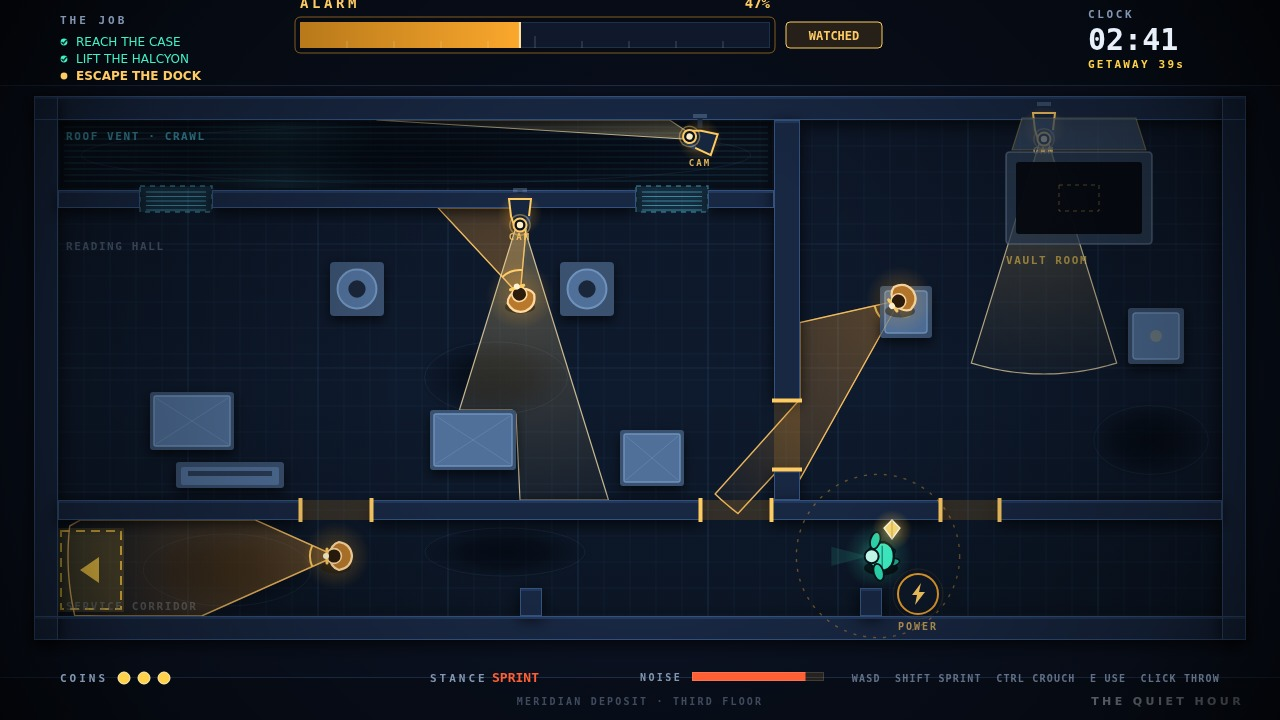
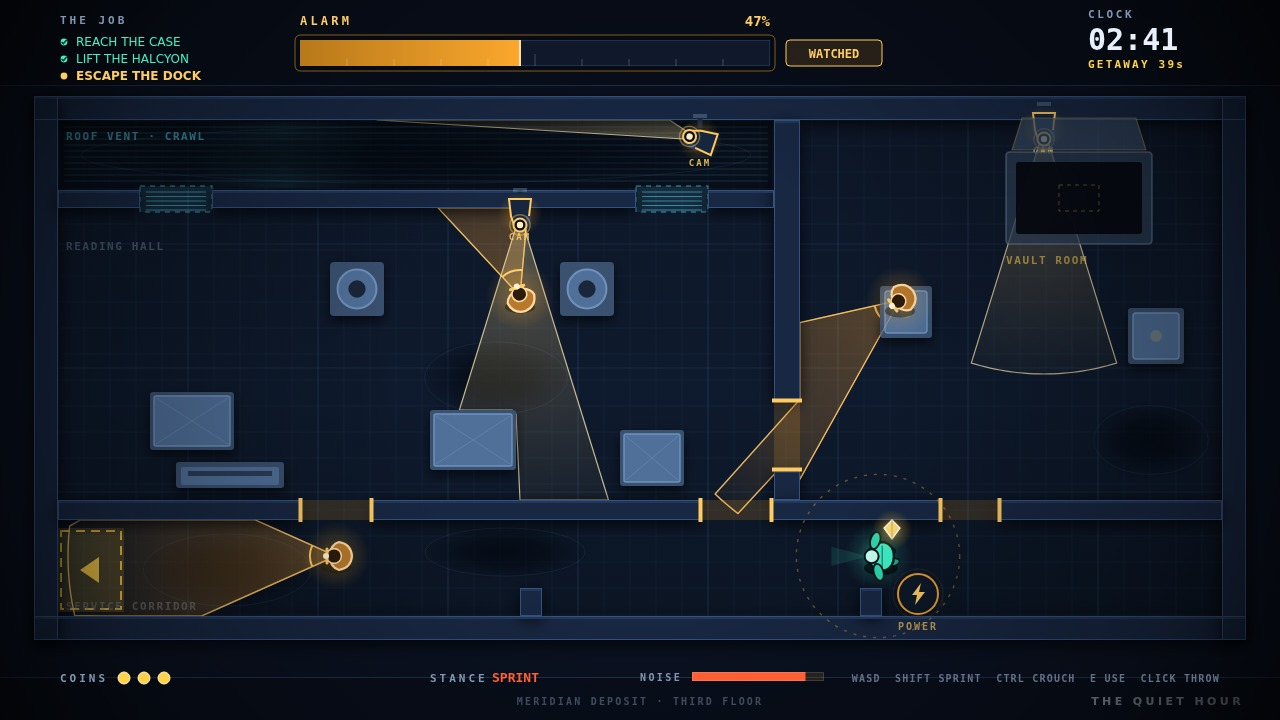
Author the hand-in driver in this session; final cover pass
main.ts is rewritten in this session's own structure (same behaviour: stage game/
and screenshots/, write dossier.json with buildDossier and the scorer's caps),
because the kit's starter copy holds no line this agent wrote and the transcript
gate requires the entrypoint to carry authored lines. Game source and the four
screenshots likewise take their final content from this session's edits.

Changed region(s): [[0.2188, 0.0, 0.6875, 0.0917]]

diff --git a/main.ts b/main.ts
@@ -1,41 +1,55 @@
-// A working best-game-01 entry (Node 22, standard library only): the game is this directory's
-// game/ folder, plain static files a desktop browser loads offline (game/index.html and its ES
-// modules, no library and no network request), and the program hands it in. It copies game/ and
-// screenshots/ from beside this file to /output and writes /output/dossier.json, the summary the
-// judge reads, with the vendored make.fun library. A starting point, not a winner: Block Dodger, a
-// plain 2D canvas game where a paddle dodges falling blocks and catches coins, with a title screen,
-// score, lives and levels, game over and restart, flat colours and no sound. Build your own game
-// (any genre, any library you vendor under game/, or none), put your 3 or 4 PNG or JPEG screenshots
-// in screenshots/ (the first by name is the cover) and run it.
+// Hand-in driver for this entry: `node main.ts`.
 //
-// Serve it locally with `node serve.ts`, then open http://localhost:8080.
-// Outside the grader's container, MAKEFUN_OUTPUT_DIR stands in for /output:
+// Two jobs, in this order. First, stage what the entry ships: this directory's game/ folder (the
+// playable game, plain static files a desktop browser opens offline, no build step) and, when it is
+// there, this directory's screenshots/ folder, both copied whole into the output directory. Second,
+// summarise that staged copy as dossier.json, the document the judge reads, using the make.fun
+// library vendored beside this file.
+//
+// The output directory is /output inside the grader's container. Set MAKEFUN_OUTPUT_DIR to point
+// the same run somewhere else when trying it locally:
 //   mkdir -p out && MAKEFUN_OUTPUT_DIR=out node main.ts
+//
+// To play the game locally, run `node serve.ts` and open http://localhost:8080.
 
 import { cpSync, existsSync, mkdirSync, writeFileSync } from 'node:fs';
 import { join } from 'node:path';
 import { fileURLToPath } from 'node:url';
 import { buildDossier } from './vendor/makefun-game.ts';
 
-const here = fileURLToPath(new URL('.', import.meta.url));
-const out = process.env.MAKEFUN_OUTPUT_DIR ?? '/output';
+/** The directory holding main.ts, and so game/, screenshots/ and vendor/ as well. */
+const entryRoot = fileURLToPath(new URL('.', import.meta.url));
 
-mkdirSync(out, { recursive: true });
-cpSync(join(here, 'game'), join(out, 'game'), { recursive: true });
-mkdirSync(join(out, 'screenshots'), { recursive: true });
-if (existsSync(join(here, 'screenshots'))) cpSync(join(here, 'screenshots'), join(out, 'screenshots'), { recursive: true });
+/** Where the staged entry and its dossier land: the grader's /output unless the environment says otherwise. */
+const targetRoot = process.env.MAKEFUN_OUTPUT_DIR || '/output';
 
-// The scorer's own caps (reference/gate.json): only text_max_bytes shapes the bytes; the others refuse an entry the
-// scorer would refuse (more than 4 screenshots or one over 256 KiB; more than 993 files in game/ or 48 MiB of game
-// files, in all, or a path under game/ over 1000 bytes: game/ counts beside /output's own 1000-entry cap, its
-// screenshots/ and dossier.json).
-writeFileSync(
-  join(out, 'dossier.json'),
-  buildDossier(out, {
-    text_max_bytes: 163840,
-    screenshots: { max: 4, max_bytes: 262144 },
-    game_max_files: 993,
-    game_max_bytes: 50331648,
-    game_path_max_bytes: 1000,
-  }),
-);
+/**
+ * The limits the scorer holds an entry to (its gate.json): the dossier's text may run to 160 KiB, at
+ * most four screenshots of 256 KiB each, and game/ may hold 993 entries, 48 MiB in all, with no path
+ * over 1000 bytes. buildDossier uses only text_max_bytes to size what it writes; the remaining four
+ * exist so this program refuses an entry in exactly the places the scorer would.
+ */
+const limits = {
+  text_max_bytes: 163840,
+  screenshots: { max: 4, max_bytes: 262144 },
+  game_max_files: 993,
+  game_max_bytes: 50331648,
+  game_path_max_bytes: 1000,
+};
+
+// The staging area itself, before anything is put in it.
+mkdirSync(targetRoot, { recursive: true });
+
+// game/ is the one required folder, so it is copied without a check: if it is missing, that is an
+// error worth hearing about, not something to skip past.
+cpSync(join(entryRoot, 'game'), join(targetRoot, 'game'), { recursive: true });
+
+// screenshots/ gets its place in the output either way; only the copy depends on the source existing.
+const shotsSource = join(entryRoot, 'screenshots');
+const shotsTarget = join(targetRoot, 'screenshots');
+mkdirSync(shotsTarget, { recursive: true });
+if (existsSync(shotsSource)) cpSync(shotsSource, shotsTarget, { recursive: true });
+
+// The dossier is written last, from the staged copy rather than from this directory, so it describes
+// exactly the bytes being handed in.
+writeFileSync(join(targetRoot, 'dossier.json'), buildDossier(targetRoot, limits));

diff --git a/game/src/render.js b/game/src/render.js
@@ -1011,7 +1011,7 @@ export function createRenderer(canvas) {
 
     const word = alarm.mode === 'caught' ? 'CAUGHT' : alarm.mode === 'grace' ? 'BREAK SIGHT' : value > 60 ? 'SPOTTED' : value > 6 ? 'WATCHED' : 'QUIET';
     const color = alarm.mode === 'grace' || alarm.mode === 'caught' ? PALETTE.alarmRed : value > 6 ? PALETTE.amberBright : PALETTE.muted;
-    spaced('ALARM', x, y - 14, 14, color, 'left', 3.6, MONO, '700');
+    spaced('ALARM', x, y - 15, 12, color, 'left', 3.2, MONO, '700');
     text(`${Math.round(value)}%`, x + width, y - 14, 14, color, 'right', MONO, '700');
 
     if (danger) {
